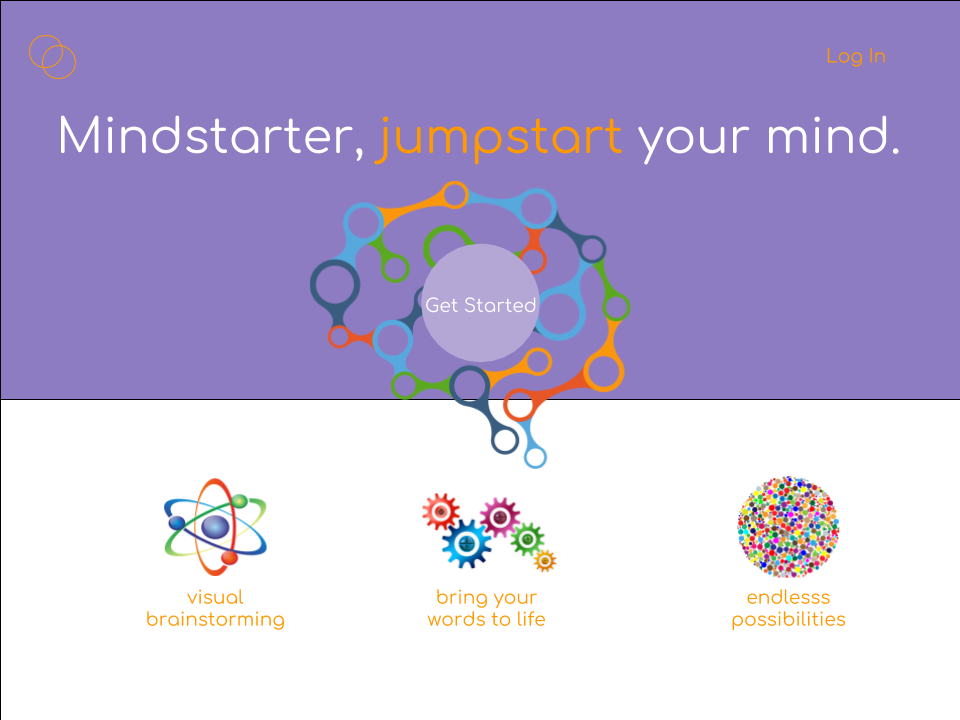
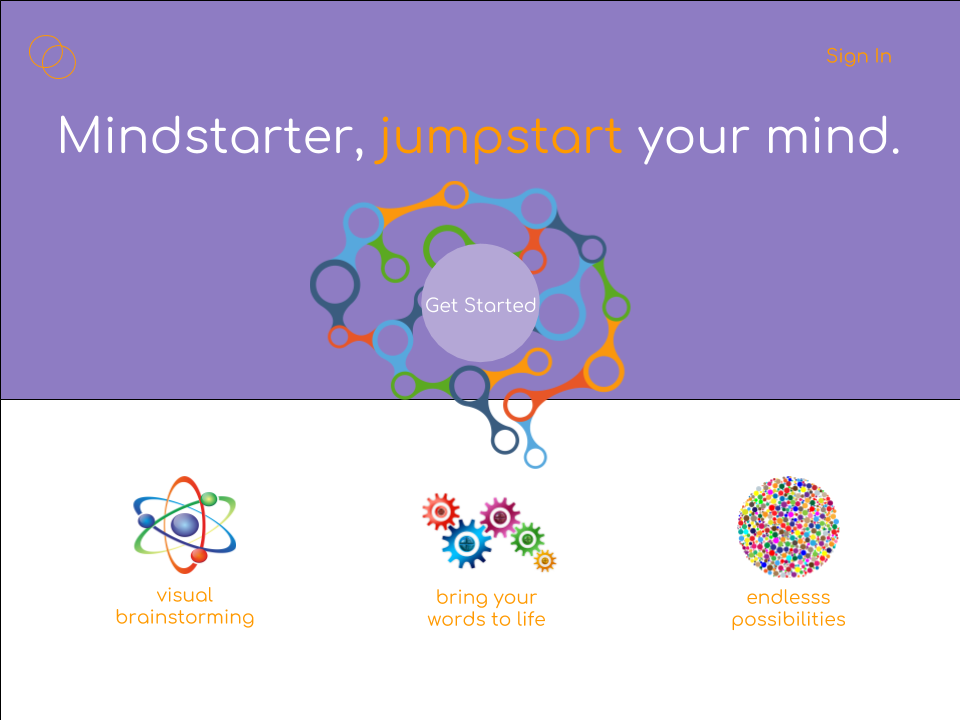
Added mobile and desktop design wireframes

Changed region(s): [[0.125, 0.6417, 0.3125, 0.8861], [0.8438, 0.0611, 0.9375, 0.0917]]

diff --git a/public/css/styles.css b/public/css/styles.css
@@ -64,20 +64,16 @@ nav li {
     pointer-events: all;
  }
 
- .relationship {
-     fill: gray;
-     font-size: 14px;
-     text-anchor: middle;
-     baseline-shift: -80px;
- }
-
-.label:hover:after {
-    /* font-family: 'FontAwesome'; */
-    /* content: 'hello'; */
+ .relationships {
+    font-size: 14px;
+    fill: gray !important;
+    text-anchor: middle; 
+    baseline-shift: -80px !important;
+    text-shadow: 0 1px 0 #fff, 1px 0 0 #fff, -1px 0 0 #fff, 0 -1px 0 #fff;
  }
 
 .ellipsis {
-    font-family: 'FontAwesome';
+    font-family: Comfortaa;
     text-anchor: middle;
     text-shadow: 0 1px 0 #fff, 1px 0 0 #fff, -1px 0 0 #fff, 0 -1px 0 #fff;
 }

diff --git a/views/profile.html b/views/profile.html
@@ -23,6 +23,7 @@
     <script>
         FontAwesomeConfig = { searchPseudoElements: true };
       </script>
+      <link rel="stylesheet" type="text/css" href="//fonts.googleapis.com/css?family=Comfortaa" />
     <link href="https://maxcdn.bootstrapcdn.com/font-awesome/4.7.0/css/font-awesome.min.css" rel="stylesheet" integrity="sha384-wvfXpqpZZVQGK6TAh5PVlGOfQNHSoD2xbE+QkPxCAFlNEevoEH3Sl0sibVcOQVnN" crossorigin="anonymous">
     <!-- <script defer src="https://use.fontawesome.com/releases/v5.0.1/js/all.js"> -->
     <!-- </script> -->
